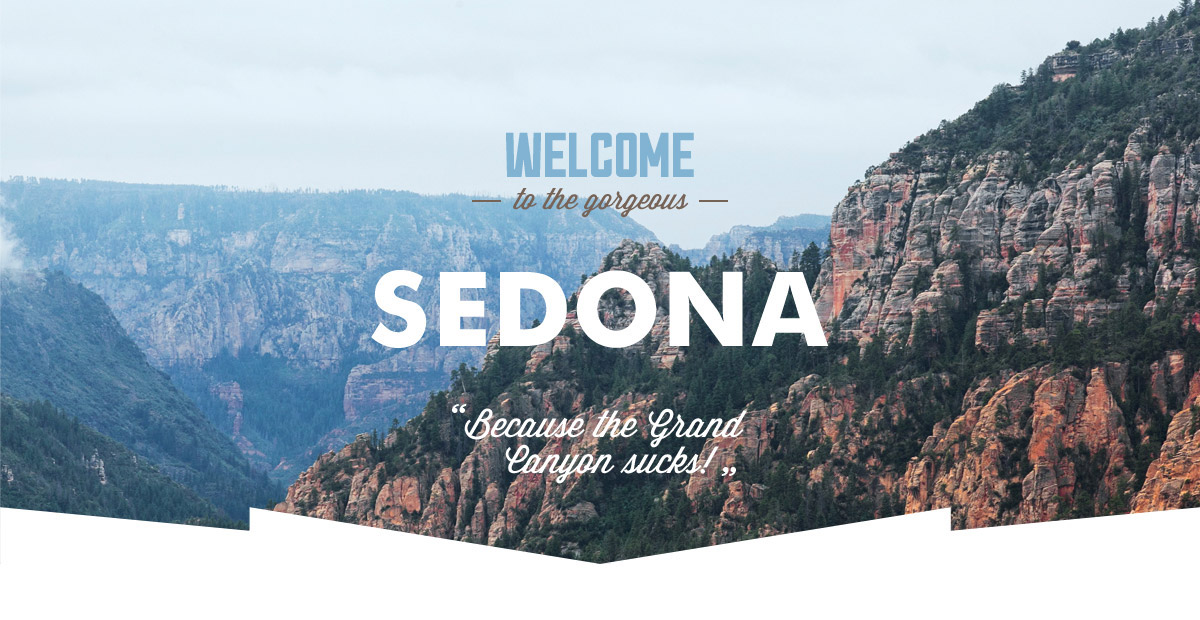
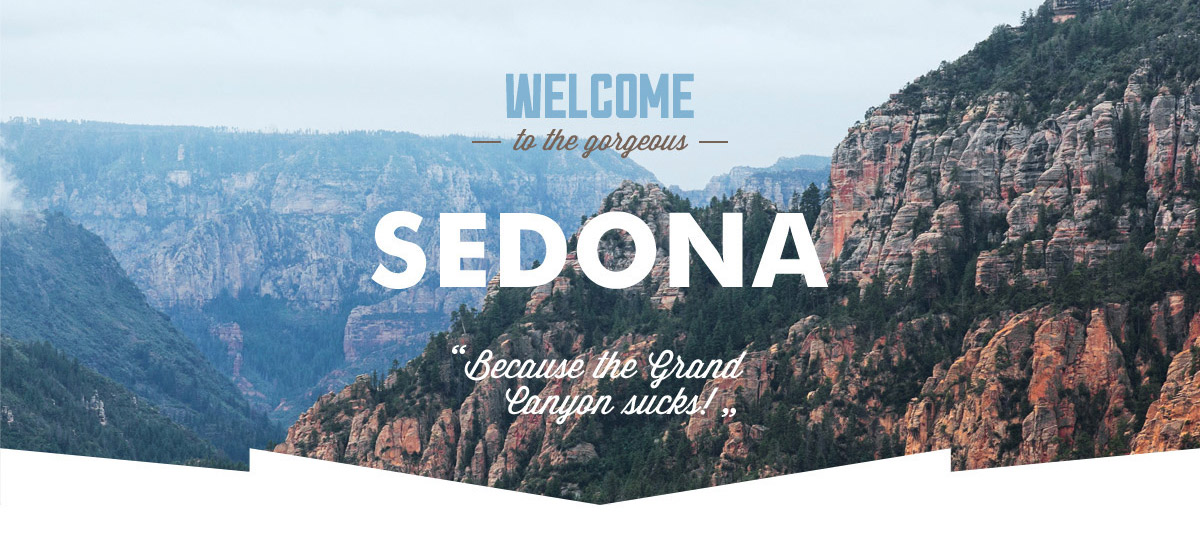
доразметил сетки

diff --git a/css/styles.css b/css/styles.css
@@ -72,15 +72,22 @@ a {
   background-repeat: no-repeat;
 }
 
+.main-banner {
+  margin-top: 19px;
+}
+
 .tagline {
   font-size: 21px;
   line-height: 26px;
+  margin-top: 9px;
+  margin-left: 375px;
 }
 
 .page-subtitle {
   font-size: 14px;
   line-height: 26px;
   font-weight: 400;
+  margin-top: 27px;
 }
 
 .advantages__item {
@@ -202,20 +209,6 @@ a {
   line-height: 21px:
 }
 
-/* .filter-cost__text {
-  font-size: 16px;
-  line-height: 21px;
-} */
-
-/* .filter-cost__button {
-  font-size: 14px;
-  line-height: 21px;
-  text-transform: uppercase;
-  background: none;
-  color: #ffffff; */
-
-}
-
 .sorting {
   text-align: left;
 }
@@ -308,7 +301,8 @@ a {
   /* outline: 1px solid #333; */
   display: flex;
   flex-wrap: wrap;
-  padding: 17px 72px;
+  padding-top: 14px;
+  padding-left: 72px;
   justify-content: space-between;
 }
 
@@ -327,7 +321,6 @@ a {
 .tagline {
   text-align: center;
   width: 450px;
-  margin-left: 380px;
 }
 
 .page-subtitle {
@@ -356,15 +349,30 @@ a {
   align-items: center;
   text-align: center;
   width: auto;
+  margin-top: 37px;
 }
 
 .reason--reverse {
   flex-direction: row-reverse;
-  margin-top: 84px;
+  margin-top: 67px;
 }
 
 .reason__block {
   margin-left: 65px;
+  height: 170px;
+}
+
+.reason__title {
+  margin-left: 0;
+  margin-top: 5px;
+}
+
+.reason__number {
+  margin-top: 23px;
+}
+
+.reason__description {
+  margin-top: 21px;
 }
 
 .reason--reverse .reason__block {
@@ -389,17 +397,37 @@ a {
   /* outline: 1px solid #333; */
   order: 2;
   width: 100%;
-  margin-top: 56px;
+  margin-top: 61px;
+}
+
+.advantages__title {
+  margin-top: 22px;
+}
+
+.advantages__text {
+  margin-top: 25px;
 }
 
 .search {
   text-align: center;
 }
 
+.search__title {
+  margin-top: 93px;
+  margin-bottom: 25px;
+}
+
+.search__info {
+  width: 443px;
+  margin-left: 378px;
+  margin-top: 13px;
+}
+
 .search__popup {
   width: 568px;
   height: 86px;
   text-transform: uppercase;
+  margin-top: 32px;
 }
 
 .search__form {
@@ -410,30 +438,87 @@ a {
 }
 
 .search__item {
-  background: rgba(234, 255, 45, 0.2);
-  box-shadow: inset 0 0 0 2px rgb(234, 255, 45);
+  /* background: rgba(234, 255, 45, 0.2);
+  box-shadow: inset 0 0 0 2px rgb(234, 255, 45); */
   width: 568px;
   margin: 0;
-  margin-top: 50px;
+  margin-top: 44px;
   display: flex;
+  margin-left: 56px;
+  height: 40px;
 }
 
 .search__item label {
   display: block;
-  padding-top: 17px;
+  padding: 0;
+  margin-top: 17px;
 }
 
 .search__item input {
-  font: inherit;
+  /* font: inherit; */
   box-sizing: border-box;
+  margin-left: 35px;
+  border: none;
+  text-transform: uppercase;
+  height: 60px;
+}
+
+.search__item:nth-child(2) {
+  margin-top: 3px;
+}
+
+.search__item:nth-child(2) label {
+  margin-top: 9px;
+}
+
+.search__item:nth-child(2) input {
+  margin-top: 7px;
+  height: 30px;
+  margin-left: 31px;
+}
+
+.search__people input {
+  height: 15px;
+  width: 15px;
+  margin: 0;
+  padding: 0;
+  margin-left: 30px;
+  margin-top: 5px;
+}
+
+.search__people label {
+  margin: 0;
+  padding: 0;
+}
+
+.search__people:nth-child(2) {
+  margin-left: 1px;
 }
 
 .button__back {
-  margin-left: 17px;
+  margin-left: 48px;
+  width: 15px;
+  height: 15px;
+  padding: 0;
+  border: none;
+  background-color: rgba(0, 0, 0, 0);
+  font-size: 42px;
+  margin-top: -12px;
+}
+
+.button__next {
+  margin-left: 18px;
+  width: 15px;
+  height: 15px;
+  padding: 0;
+  border: none;
+  background-color: rgba(0, 0, 0, 0);
+  font-size: 24px;
 }
 
 .search__people {
-  width: 250px;
+  width: 235px;
+  flex: 0 1 40%;
 }
 
 .search__form {
@@ -481,6 +566,7 @@ a {
   flex-wrap: wrap;
   justify-content: space-between;
   padding-left: 0px;
+  margin-left: 33px;
 }
 
 .footer-copyright {
@@ -491,14 +577,15 @@ a {
 }
 
 .footer-copyright__contact {
-  margin-right: 8px;
-  margin-top: 6px;
+  margin-left: 10px;
+  margin-top: 5px;
 }
 
 .visit__text {
   width: 140px;
   height: 20px;
-  margin-top: 36px;
+  margin-top: 31px;
+  margin-left: 22px;
 }
 
 .advantages__list {

diff --git a/index.html b/index.html
@@ -24,42 +24,42 @@
         </ul>
       </nav>
       <div class="main-banner">
-        <img src="img/banner.jpg" width="1200" height="620" alt="Седона приветствие">
+        <img src="img/banner.jpg" width="1200" height="550" alt="Седона приветствие">
       </div>
     </header>
     <main class="container">
-      <h1 class="tagline">Седона - небольшой городок в Аризоне, заслуживающий большего!</h1>
+      <h1 class="tagline">Седона — небольшой городок в Аризоне, заслуживающий большего!</h1>
       <p class="page-subtitle">Рассмотрим 5 причин, по которым седона круче, чем Гранд Каньон!</p>
       <section class="content">
         <div class="reason reason--long" style="order: 1">
           <div class="reason__block">
             <h2 class="reason__title">Настоящий <br> городок</h2>
-            <p class="reason__number">-№1-</p>
-            <p class="reason__description">Седона - не аттракцион для туристов,<br> там течет своя жизнь</p>
+            <p class="reason__number">— №1 —</p>
+            <p class="reason__description">Седона — не аттракцион для туристов,<br> там течет своя жизнь</p>
           </div>
           <img src="img/index-garden.jpg" width="800" height="256" alt="Сад">
         </div>
         <div class="reason reason--long reason--reverse">
           <div class="reason__block">
             <h2 class="reason__title">Там есть <br> мост дьявола</h2>
-            <p class="reason__number">-№2-</p>
+            <p class="reason__number">— №2 —</p>
             <p class="reason__description">Да, по нему можно пройти! Если конечно<br> вы осмелитесь</p>
           </div>
           <img src="img/mountains.jpg" width="800" height="256" alt="Горы">
         </div>
         <div class="reason">
           <h2 class="reason__title">Небольшая <br> площадь</h2>
-          <p class="reason__number">-№3-</p>
+          <p class="reason__number">— №3 —</p>
           <p class="reason__description">Все достопримечательности <br> находятся очень близко</p>
         </div>
         <div class="reason">
           <h2 class="reason__title">Красивая <br> дорога</h2>
-          <p class="reason__number">-№4-</p>
+          <p class="reason__number">— №4 —</p>
           <p class="reason__description">Ехать в Седону из Лас-Вегаса совсем <br> не скучно!</p>
         </div>
         <div class="reason">
           <h2 class="reason__title">Мало <br> туристов</h2>
-          <p class="reason__number">-№5-</p>
+          <p class="reason__number">— №5 —</p>
           <p class="reason__description">Большинство едет в Гранд Каньон и <br> толпится там</p>
         </div>
         <div class="advantages">
@@ -92,7 +92,7 @@
             <input id="search-arrival" type="text" name="arrival date" value="" placeholder="24 апреля 2017">
           </p>
           <p class="search__item">
-            <label for="search-departure">Дата отъезда:</label>
+            <label for="search-departure">Дата выезда:</label>
             <input id="search-departure" type="text" name="departure date" value="" placeholder="4 июля 2017">
           </p>
           <p class="search__item search__people">
